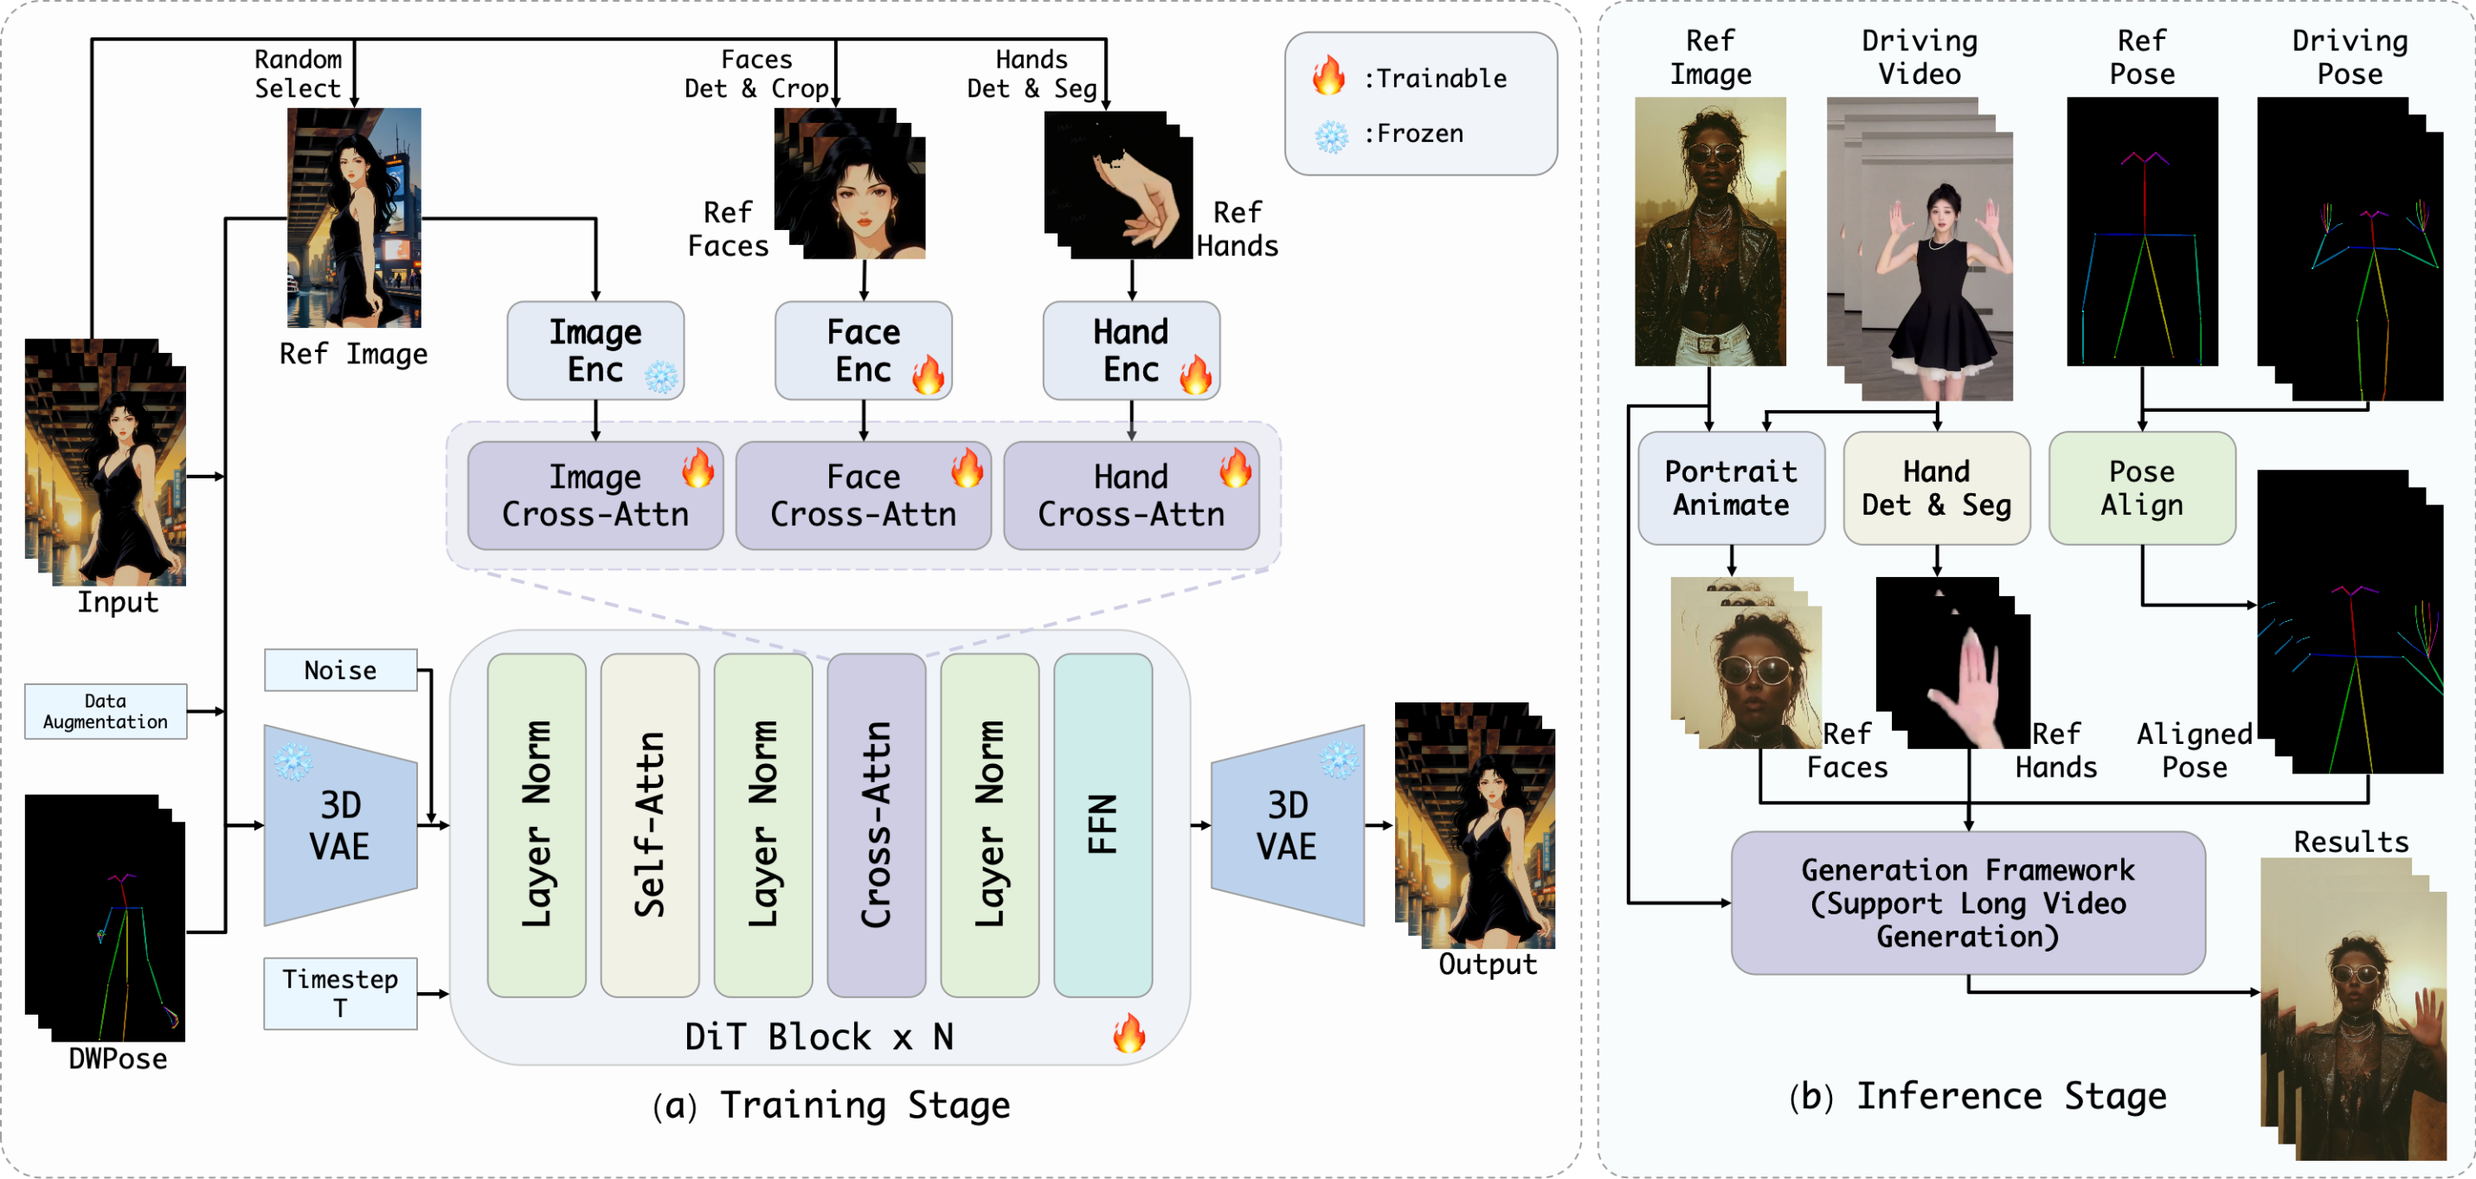
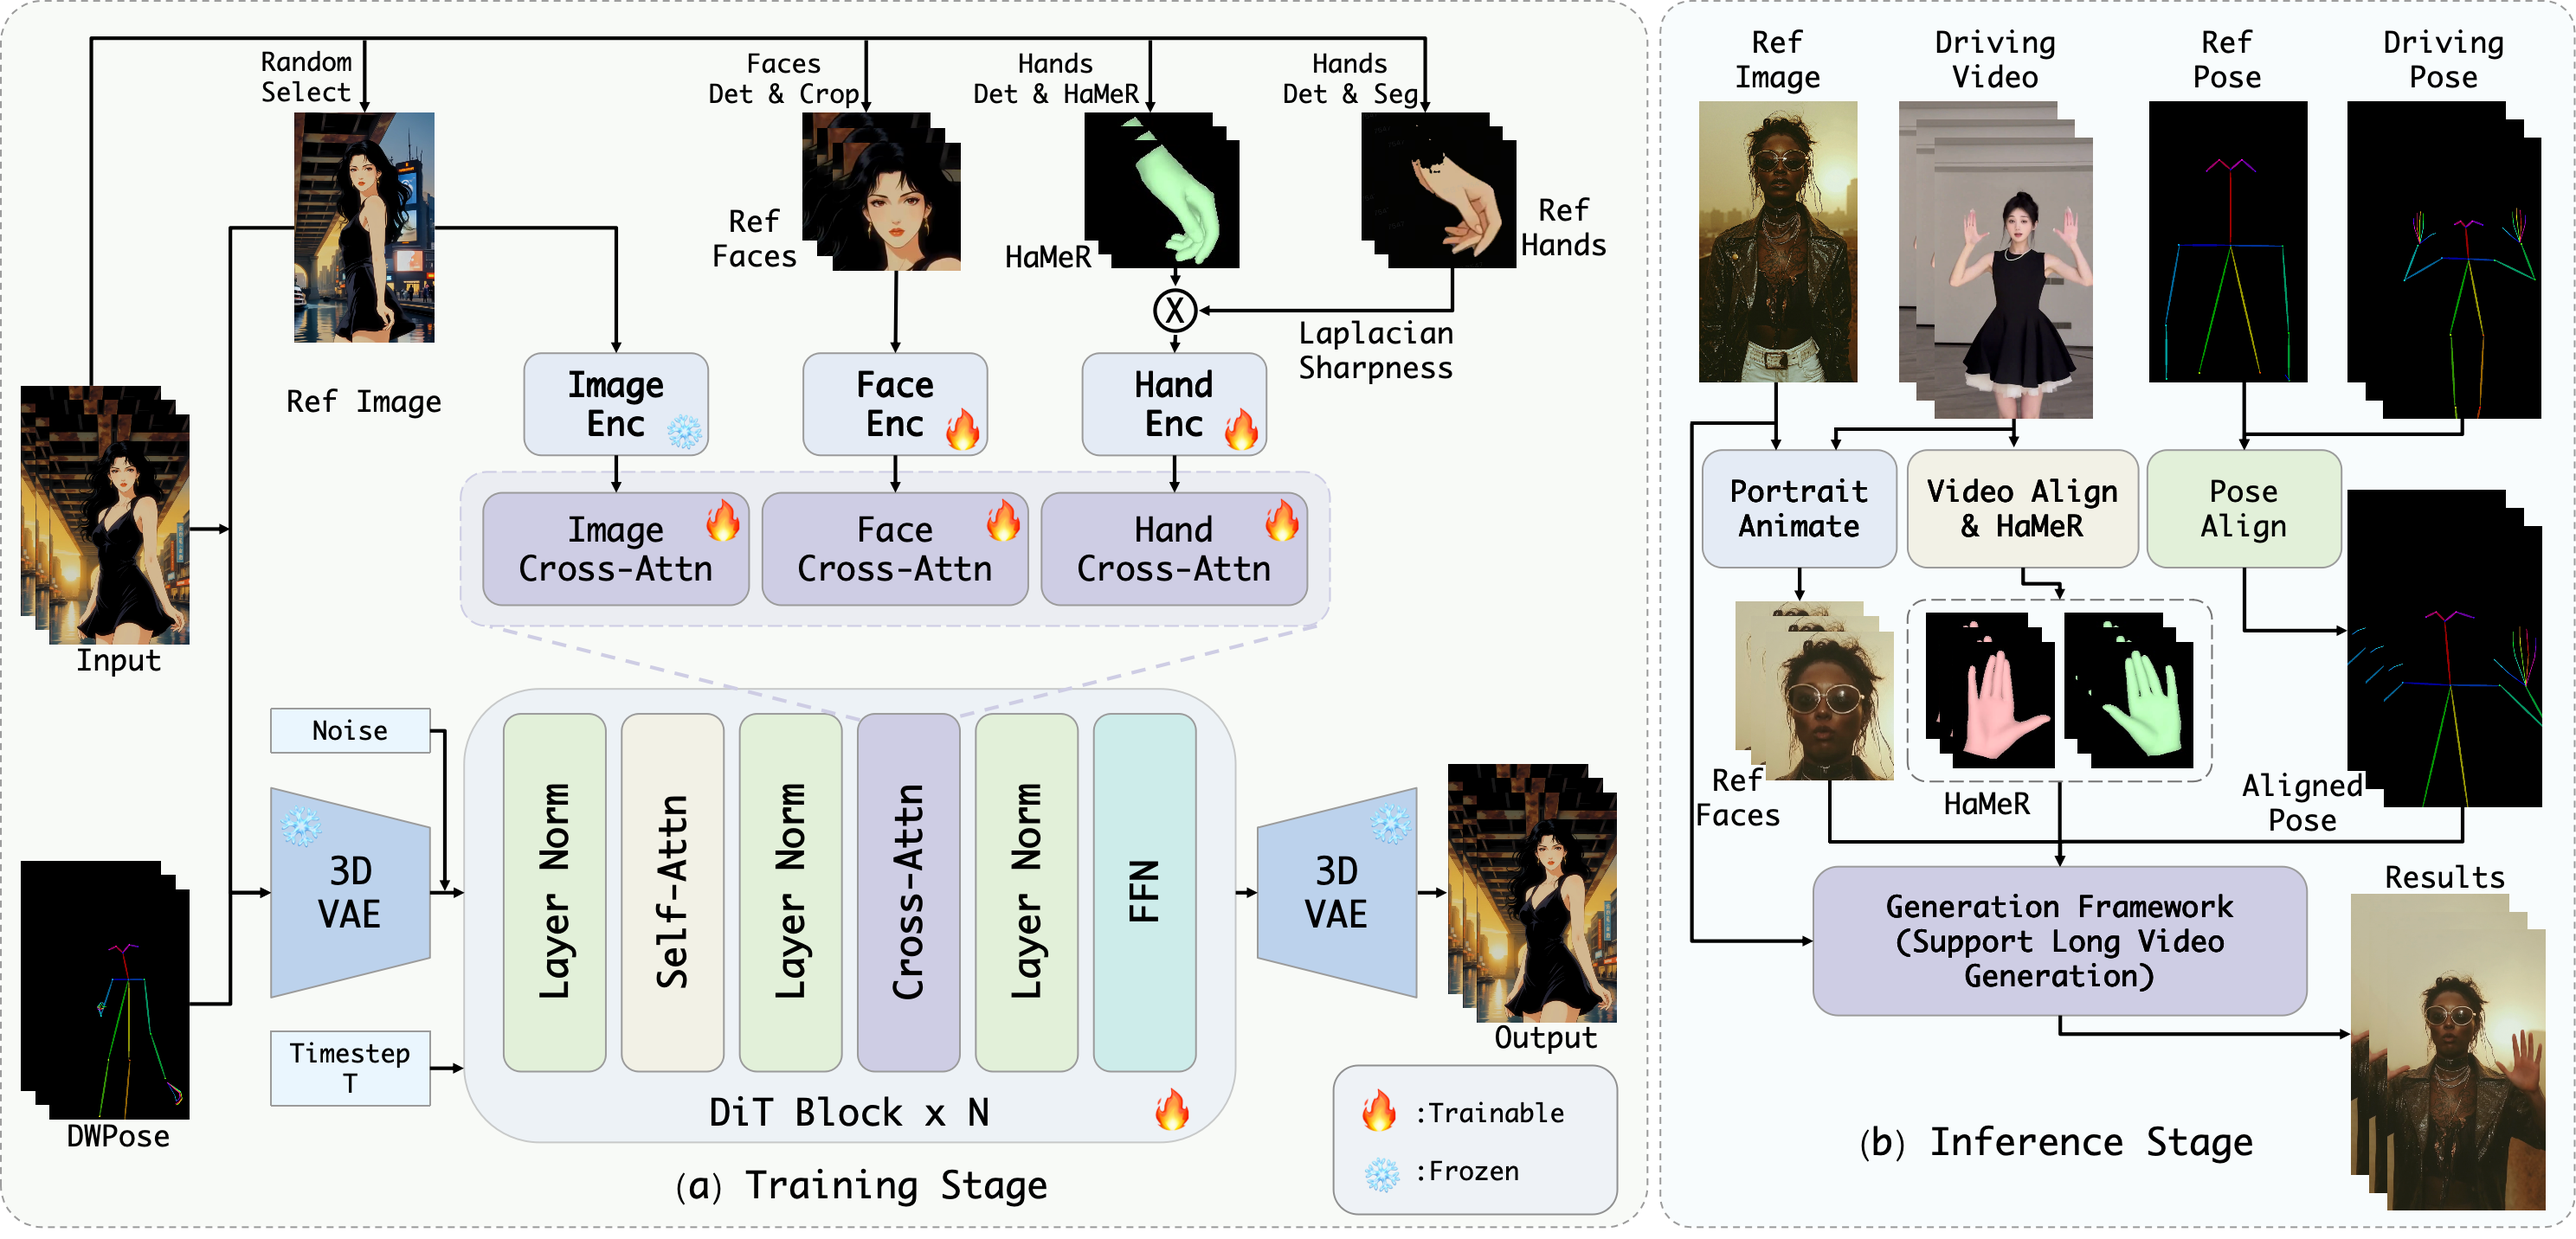
feat: commit

diff --git a/index.html b/index.html
@@ -39,7 +39,7 @@
         content="High-Fidelity and Long-Duration Human Image Animation with Large-Scale Video Diffusion Transformer">
   <meta name="keywords" content="Video Generation, Camera Motion transfer, Camera-Object Motion, Disentanglement">
   <meta name="viewport" content="width=device-width, initial-scale=1">
-  <title style="color: white;">High-Fidelity and Long-Duration Human Image Animation with Large-Scale Video Diffusion Transformer</title>
+  <title style="color: white;">High-Fidelity and Long-Duration Human Image Animation with Diffusion Transformer</title>
 
   <!-- Global site tag (gtag.js) - Google Analytics -->
   <script async src="https://www.googletagmanager.com/gtag/js?id=G-PYVRSFMDRL"></script>
@@ -84,7 +84,7 @@
       <div class="container is-max-desktop">
         <div class="columns is-centered">
           <div class="column has-text-centered">
-            <h2 class="title is-1 publication-title" style="color: white;font-size: 2.5rem;">  High-Fidelity and Long-Duration Human Image Animation with Large-Scale Video Diffusion Transformer  </h1>
+            <h2 class="title is-1 publication-title" style="color: white;font-size: 2.5rem;">  High-Fidelity and Long-Duration Human Image Animation with Diffusion Transformer  </h1>
             
    
   
